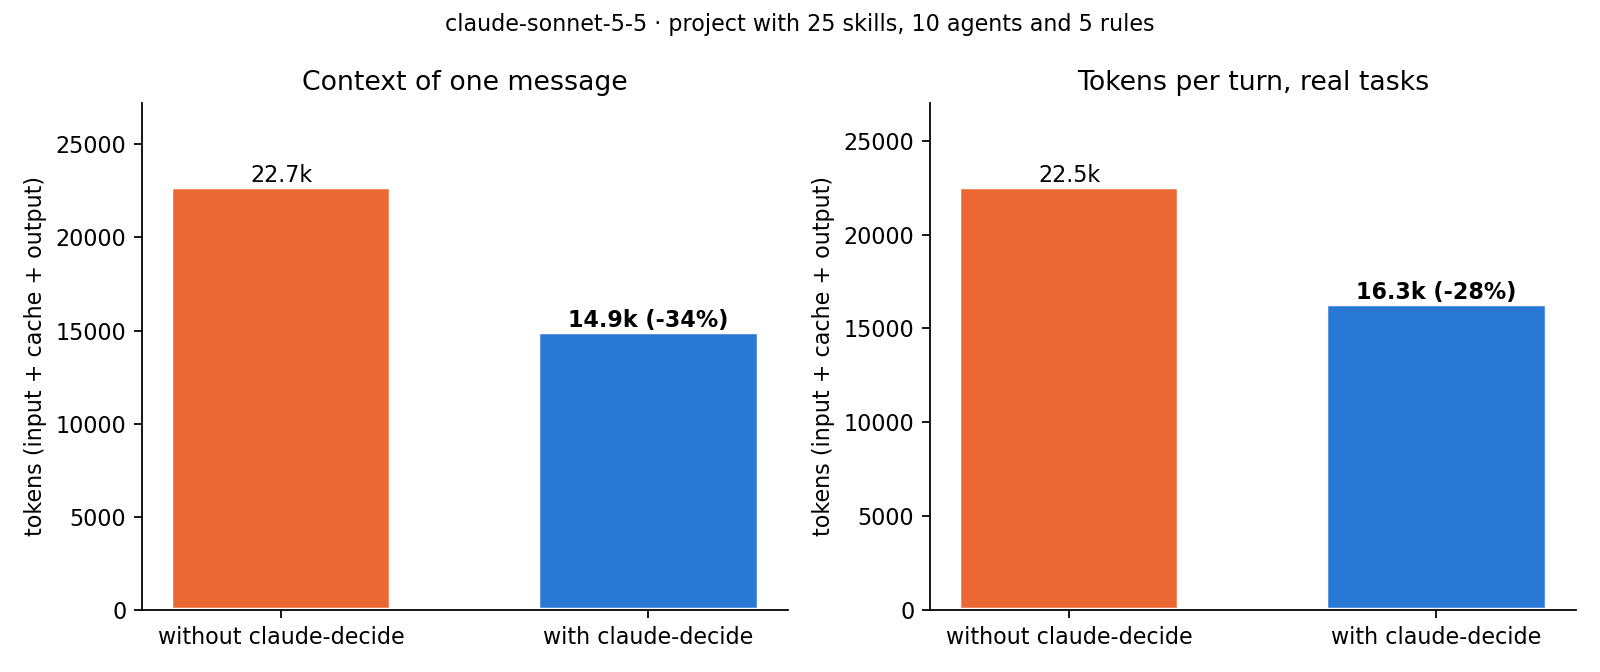
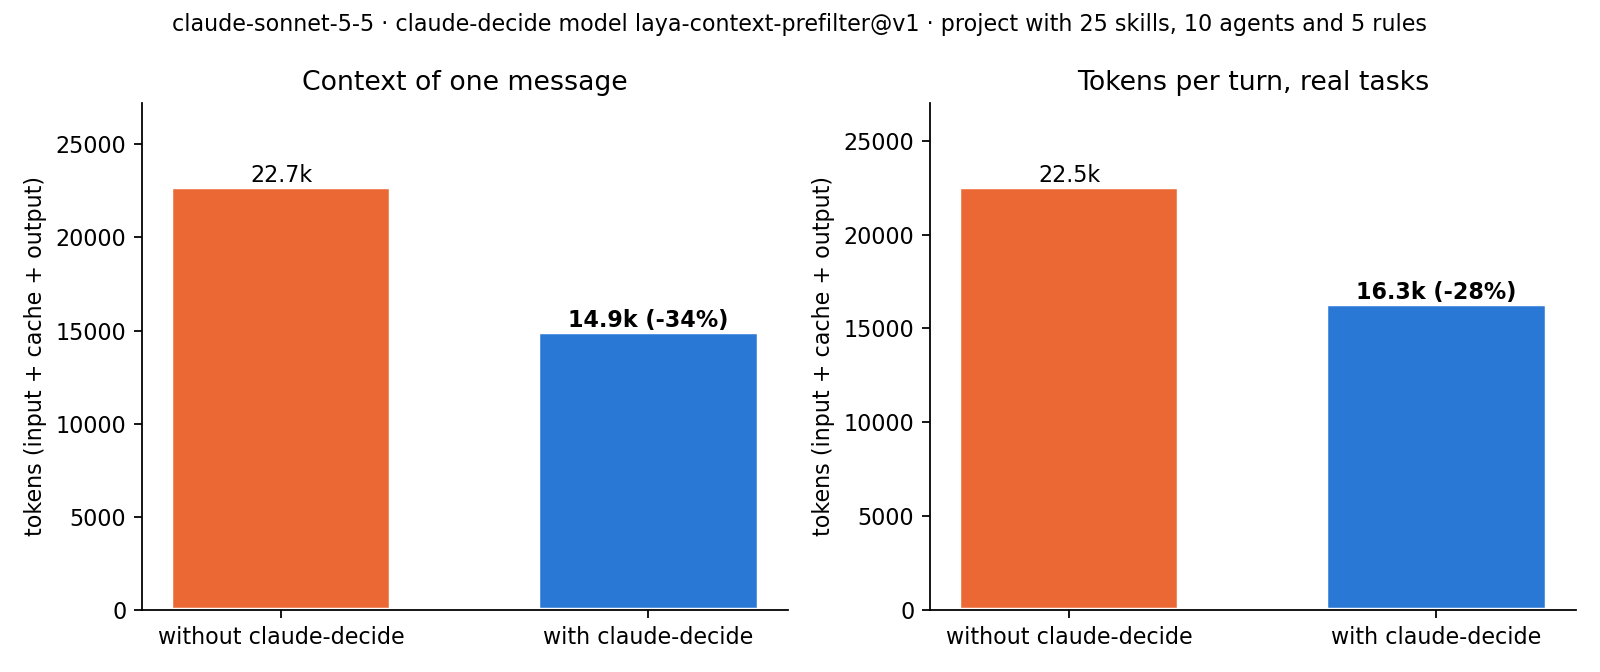
feat(bench): gráfica models.png con los tres modelos lado a lado y la versión de claude-decide en el subtítulo de cada gráfica

Changed region(s): [[0.25, 0.0, 0.9062, 0.0625], [0.0938, 0.0312, 0.2188, 0.0625]]

diff --git a/bench/tokens/charts.py b/bench/tokens/charts.py
@@ -98,8 +98,44 @@ def per_task(groups):
     fig.savefig(OUT / f"tasks{TAG}.png", dpi=160)
 
 
+NAMES = {"claude-haiku-4-5-20251001": "Haiku 4.5", "claude-sonnet-5-5": "Sonnet 5.5", "claude-opus-5-5": "Opus 5.5"}
+
+
+def models():
+    """Every model side by side: tokens per task, per turn and cost per task, without and with, on the real tasks.
+    Each model with the one claude-decide version it ran (a model with several is skipped: pick one with charts)."""
+    rows = [json.loads(line) for line in (HERE / "results.jsonl").read_text().splitlines()]
+    order = [m for m in NAMES if len({r["decide"] for r in rows if r["model"] == m}) == 1]
+    if not order:
+        return
+    work = lambda m, c: [r for r in rows if r["model"] == m and r["condition"] == c and r["task"] != "ok"]
+    decide = {m: next(r["decide"] for r in rows if r["model"] == m).rsplit("@", 1)[-1] for m in order}
+    panels = (("Tokens per task", lambda rs: mean(map(total, rs)) / 1000, "{:.0f}k", "thousand tokens"),
+              ("Tokens per turn", lambda rs: mean(total(r) / (r["turns"] or 1) for r in rs) / 1000, "{:.1f}k",
+               "thousand tokens"),
+              ("Cost per task", lambda rs: mean(r["cost"] or 0 for r in rs), "${:.3f}", "US$ at API prices"))
+    fig, axes = plt.subplots(1, 3, figsize=(12, 4.2))
+    x = range(len(order))
+    for ax, (title, measure, fmt, unit) in zip(axes, panels):
+        sin = [measure(work(m, "sin")) for m in order]
+        con = [measure(work(m, "con")) for m in order]
+        ax.bar([i - .2 for i in x], sin, .4, color=SIN, edgecolor="white", linewidth=2, label=WITHOUT)
+        ax.bar([i + .2 for i in x], con, .4, color=CON, edgecolor="white", linewidth=2, label=WITH)
+        for i, (a, b) in enumerate(zip(sin, con)):
+            ax.text(i - .2, a, fmt.format(a), ha="center", va="bottom", fontsize=7)
+            ax.text(i + .2, b, f"{(b - a) / a:+.0%}", ha="center", va="bottom", fontsize=9, fontweight="bold")
+        ax.set_xticks(list(x), [f"{NAMES[m]}\nclaude-decide {decide[m]}" for m in order], fontsize=8)
+        ax.set_ylim(0, max(sin + con) * 1.18)
+        style(ax, title, unit)
+    axes[0].legend(frameon=False, fontsize=8, loc="upper left")
+    fig.suptitle(f"Real tasks, 3 runs each · project with {ENV}", fontsize=10)
+    fig.tight_layout()
+    fig.savefig(OUT / "models.png", dpi=160)
+
+
 def main():
     OUT.mkdir(exist_ok=True)
+    models()
     groups = load()
     summary(groups)
     per_task(groups)
